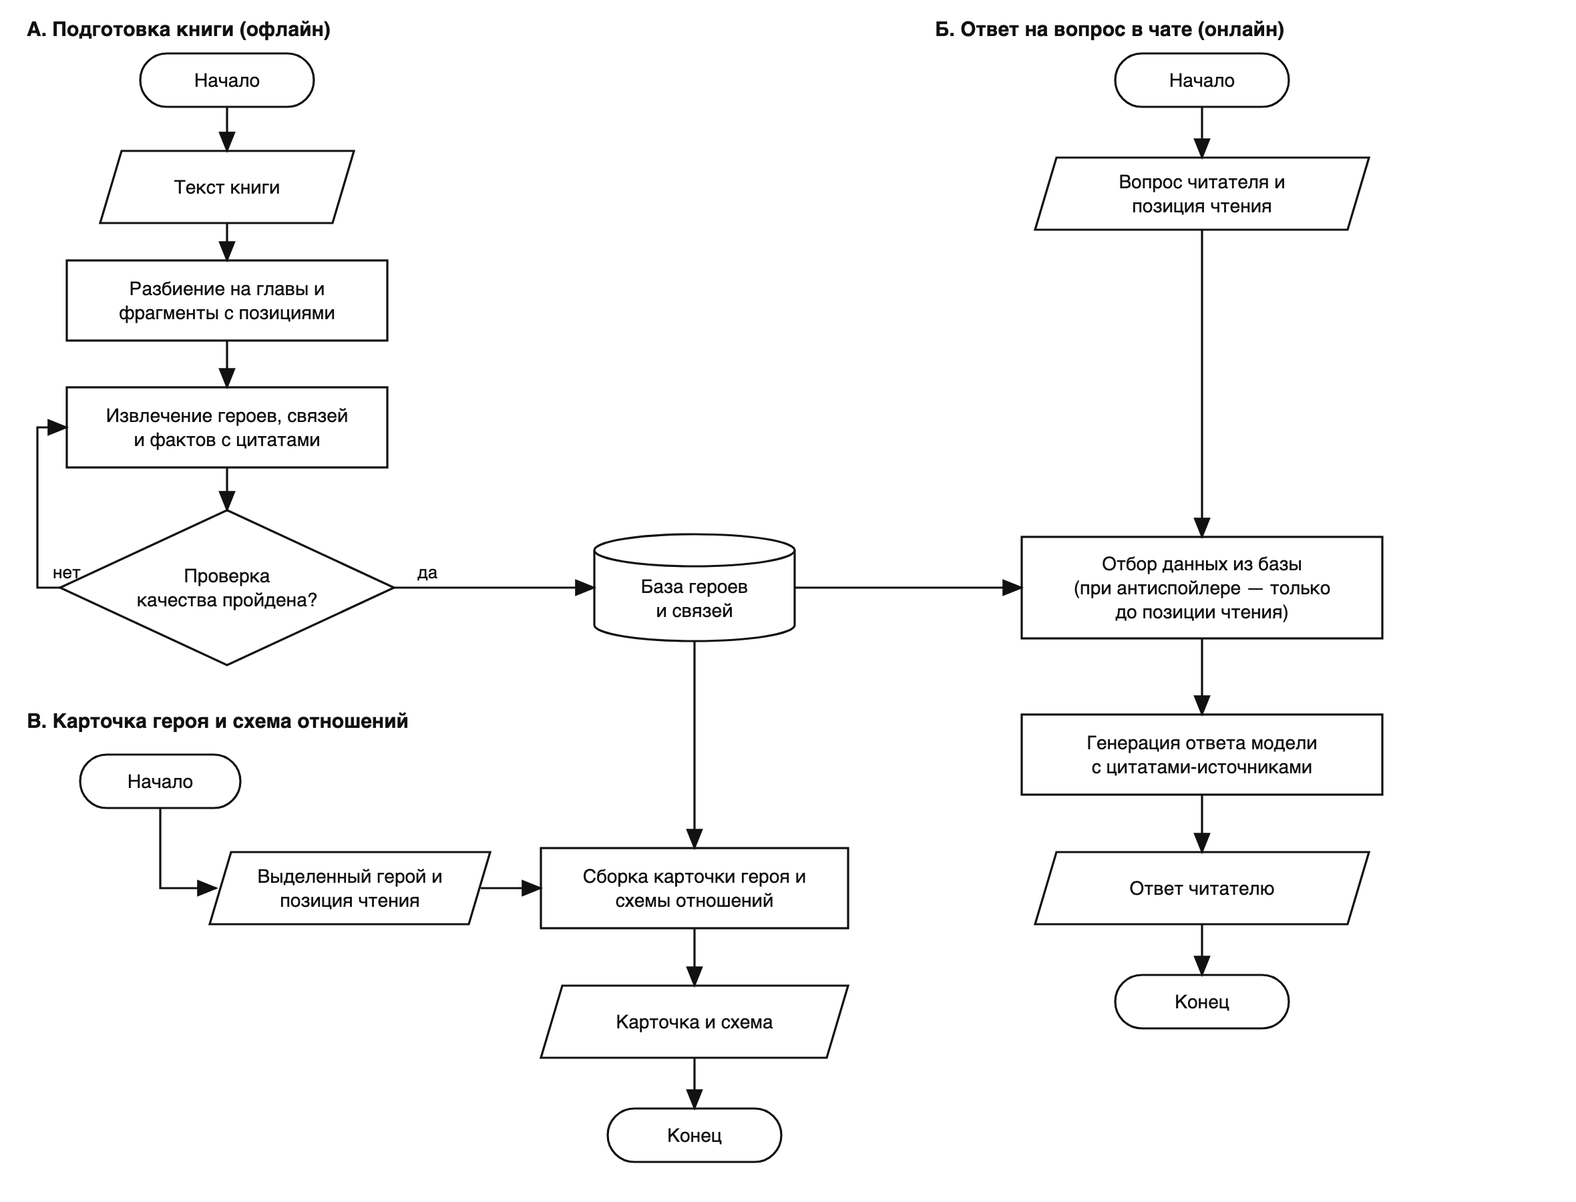
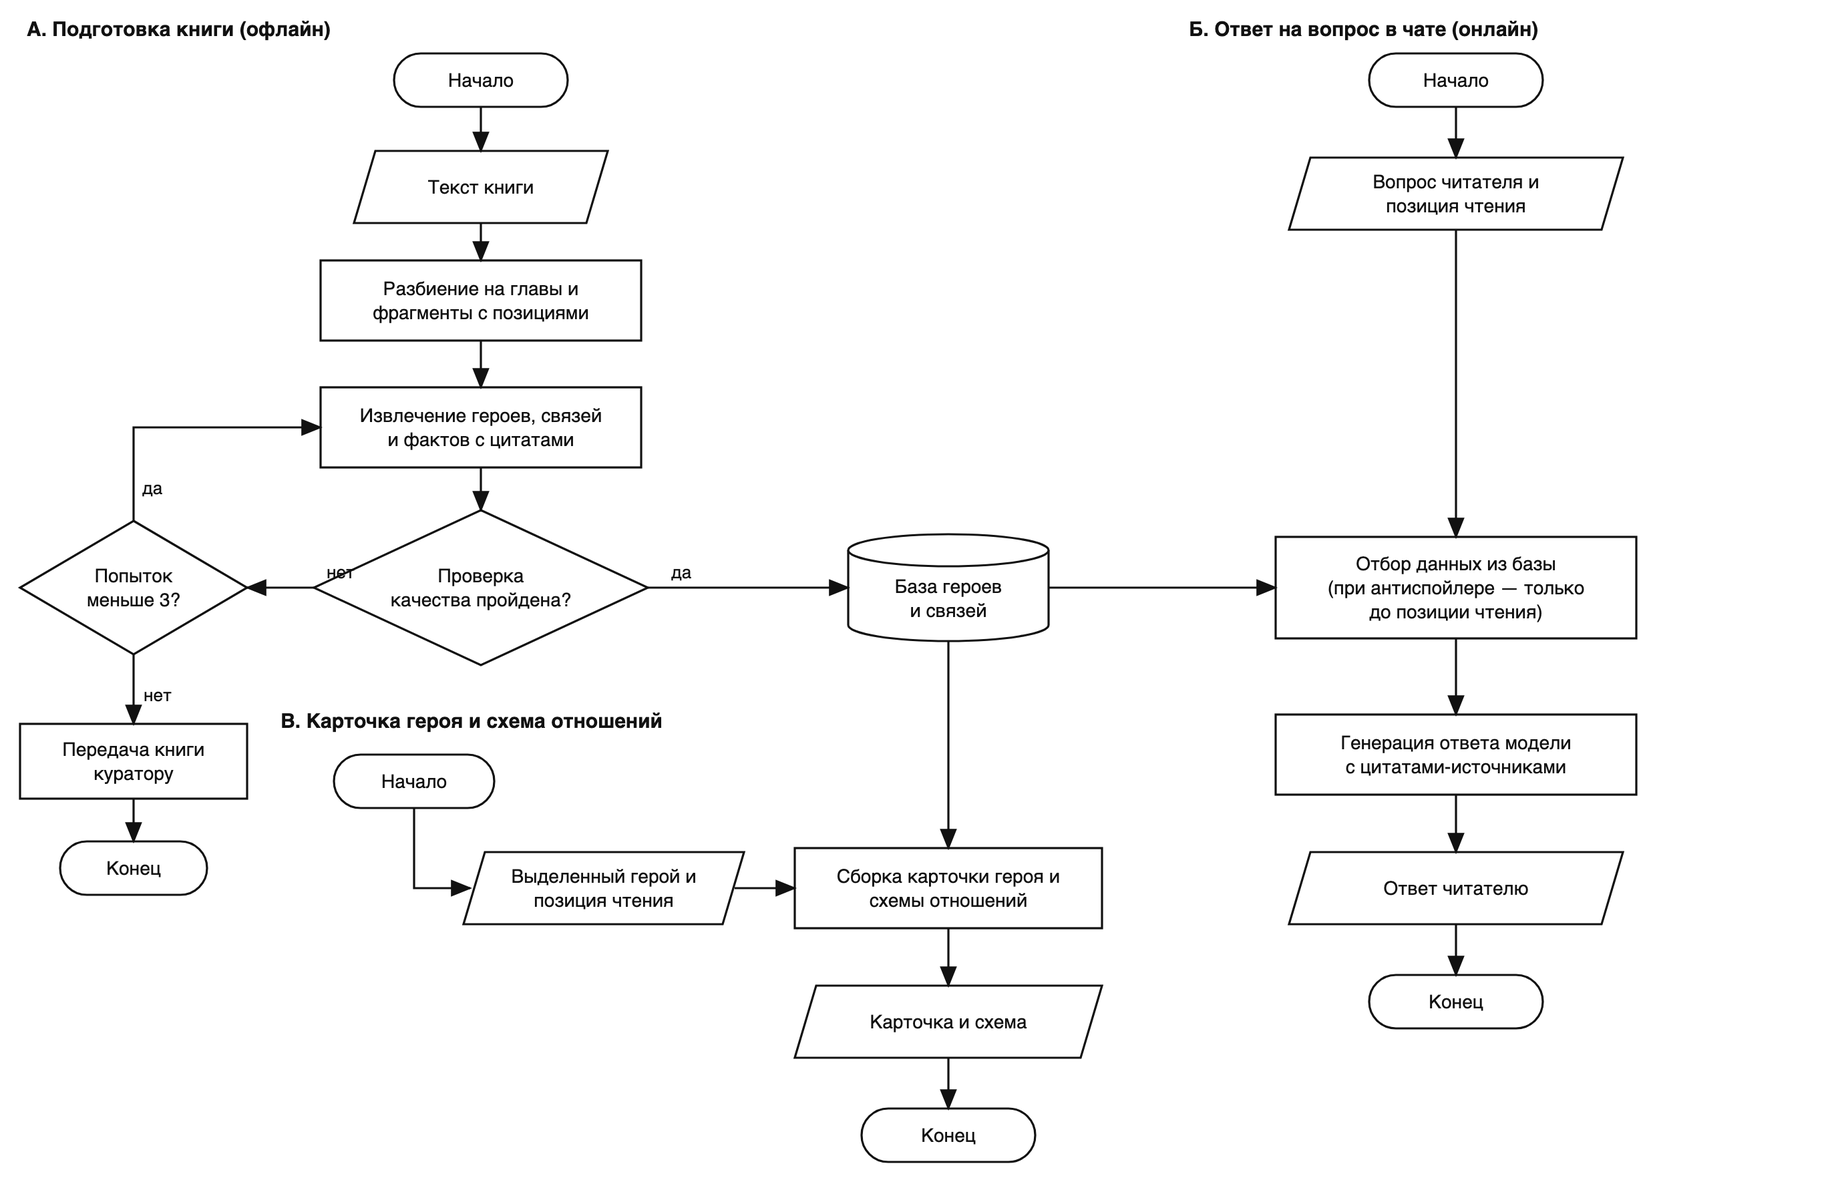
Правки по ревью: согласованы цифры, источники, повторные попытки на схеме

diff --git a/docs/ml_system_design_doc.md b/docs/ml_system_design_doc.md
@@ -1,6 +1,6 @@
-# Персонажи в Интуиции
+# Персонажи в «Интуиции»
 
-**Контекст.** Интуиция — ИИ-приложение для чтения книг. По любому выделенному фрагменту оно даёт достоверный
+**Контекст.** «Интуиция» — ИИ-приложение для чтения книг. По любому выделенному фрагменту оно даёт достоверный
 ответ с опорой на отобранные экспертами источники. Сайт: [readintuition.ru](https://readintuition.ru).
 
 # 1. Цели и предпосылки
@@ -9,7 +9,12 @@
 
 **Проблема.** В больших художественных книгах много героев: у них бывают прозвища, их имена меняются, а читатель нередко делает паузы в чтении. В итоге он теряется и задаётся вопросами вроде «кто это?» или «кем он
 приходится главному герою?». Чтобы разобраться, ему приходится листать книгу назад или искать ответ в
-интернете, где легко нарваться на спойлеры. Часть читателей из-за этого бросает книгу.
+интернете, где легко нарваться на спойлеры. Согласно продуктовым исследованиям, часть читателей из-за этого бросает книгу.
+Проблему подтверждают и конкуренты: в августе 2026 года Яндекс Книги запустили ИИ-функцию «О персонажах»
+([новость](https://www.comss.ru/page.php?id=21562)), которая напоминает, кто есть кто, без раскрытия
+непрочитанного. Раньше Яндекс выпустил «Ранее в книге» (ИИ-пересказ предыдущих глав после перерыва). По данным
+компании, ею воспользовались более 13% подписчиков, а их время чтения выросло на 15%
+([источник](https://rozetked.me/news/43271-funkciya-ranee-v-knige-ot-yandeksa-teper-dostupna-i-dlya-audioknig)).
 
 **Что делаем.** Добавляем в приложение «Интуиция» фичу «Персонажи». Читатель задаёт в чате вопрос
 вроде «а кем Старцев ему приходится?» и получает точный ответ, который учитывает, до какого места он дочитал
@@ -28,7 +33,8 @@
 - Вручную описывать героев для каждой книги библиотеки невозможно: это дорого и не
   масштабируется.
 - Обычный поиск по тексту (RAG) тоже не подходит: связи между героями разбросаны по всей книге,
-  и поиск находит отдельные фрагменты, но не собирает из них полную картину. В базовой конфигурации такой подход также не учитывает спойлеры.
+  и поиск находит отдельные фрагменты, но не собирает из них полную картину. Из-за этого ответ на вопрос о связи
+  героев зависит от того, какие фрагменты попали в выдачу, и часть связей теряется.
 
 **Что считаем успехом итерации.** Читатели пользуются вопросами и карточками про героев, ответы верны и не
 содержат спойлеров, а подготовка новой книги проходит без ручной работы.
@@ -41,7 +47,7 @@
 - В чате можно спросить про героя («кто такой Старцев?») и про связь героев («кем Старцев ему приходится?»).
   Местоимения вроде «ему» система понимает из контекста диалога и места, где читатель находится в книге.
 - Ответы учитывают позицию чтения: в них нет ничего из того, что читатель ещё не прочитал. Если он сам
-  захочет, он может отключить автоспойлер. Тогда ответы должны учитывать все произведение.
+  захочет, он может отключить антиспойлер. Тогда ответы должны учитывать все произведение.
 - У каждого факта и каждой связи есть источник: цитата и глава, чтобы читатель мог проверить ответ.
 - Читатель может открыть карточку героя (описание, факты, связи) и схему отношений. Они строятся из тех же
   данных, что и ответы в чате.
@@ -50,15 +56,15 @@
 
 **Нефункциональные требования**
 
-- *Качество.* Ответы достоверны не менее чем на 95%, не менее 80% фактов подтверждаются цитатой, спойлеров
-  не больше 2%.
+- *Качество.* Целевые показатели достоверности, подтверждения цитатами и доли спойлеров заданы в критериях
+  успеха пилота ниже.
 - *Скорость.* Ответ в чате приходит не позже чем за 5 секунд. Карточка и схема открываются без заметной
   задержки, так как данные собраны заранее.
 - *Стоимость.* Обработка одной книги стоит не больше 1 000 ₽, один ответ в чате — не больше 3 ₽
   (первичная оценка по объёму книги около 1 млн токенов и цене облегчённой модели, уточним замерами).
 - *Автоматизация.* Обработка книги запускается без ручных шагов и на одной и той же книге даёт
   одинаковый результат.
-- *Масштабируемость.* Подход должен работать на всей художественной библиотеке, а не только на пилотных книгах.
+- *Масштабируемость.* Архитектура не должна мешать масштабированию на всю художественную библиотеку.
 - *Юридические.* Тексты книг защищены авторским правом, поэтому в ответах показываем пересказ и короткие
   цитаты (не длиннее 30 слов, то есть одно-два предложения), а не крупные фрагменты.
 - *Язык.* Книги и вопросы на русском языке.
@@ -67,9 +73,9 @@
 
 - Бюджет пилота на языковые модели (обработка книг и ответы в чате) не больше 15 000 ₽.
 - Используем готовые языковые модели, свои не обучаем.
-- Работаем в рамках текущей инфраструктуры Интуиции: тексты книг и чат-ассистент на RAG уже есть.
+- Работаем в рамках текущей инфраструктуры «Интуиции»: тексты книг и чат-ассистент на RAG уже есть.
 
-**Ожидаемый результат итерации.** Фича работает на нескольких художественных книгах из библиотеки.
+**Ожидаемый результат итерации.** Фича работает на двух художественных книгах из библиотеки.
 
 **Как фича встраивается в процесс на время пилота.** Она включена только для пилотных книг, а остальные
 работают как раньше. Если ответ или карточка содержат ошибку, читатель может на неё пожаловаться.
@@ -78,14 +84,17 @@
 
 Продуктовые:
 
-- доля читающих, задавших вопрос о героях, не ниже 30%;
+- доля читателей пилотных книг, задавших вопрос о героях, не ниже 10%;
 - доля положительных оценок ответов про персонажей не ниже 80%.
 
 Качество:
 
-- в проверочных наборах нет спойлеров;
-- ответы достоверны на 95%;
-- 80% фактов подтверждаются цитатой из книги.
+- доля спойлеров не больше 2%;
+- ответы достоверны не менее чем на 95%;
+- не менее 80% фактов подтверждаются цитатой из книги.
+
+Достоверность и спойлеры оцениваем на размеченной выборке не менее чем из 100 вопросов по двум пилотным
+книгам: модель-судья сверяет ответ с текстом книги, часть ответов дополнительно проверяется вручную.
 
 **Дальнейшие шаги при успехе.** Раскатываем фичу на всю художественную библиотеку.
 
@@ -99,7 +108,7 @@
 - Карточка героя.
 - Схема отношений.
 - Антиспойлер по позиции чтения.
-- Проверка качества на нескольких книгах, размеченных вручную.
+- Проверка качества на двух книгах, размеченных вручную.
 
 **Не входит в итерацию**
 
@@ -112,10 +121,9 @@
 
 ## 1.4. Предпосылки решения
 
-- В приложении Интуиция уже есть тексты книг, чат-ассистент на RAG. Позицию чтения каждого
+- В приложении «Интуиция» уже есть тексты книг, чат-ассистент на RAG. Позицию чтения каждого
   читателя мы знаем.
 - Информацию о героях берём только из текста книги, а не из знаний модели. Иначе в ответы попадут спойлеры и сведения из экранизаций.
-- Используем готовые языковые модели и не обучаем свои.
 - Главные риски: ошибки в связях между героями, дубли одного героя под разными именами, утечка спойлеров и
   рост стоимости на очень длинных книгах.
 
@@ -131,7 +139,10 @@
   героях сохраняются так же, с позицией.
 - **Запрос читателя:** вопрос в чате или выделенный герой, позиция чтения. Ответ собирается только из
   данных, которые относятся к тексту до этой позиции при включённом антиспойлере.
-- **Метрики качества:** точность и полнота найденных героев и связей на вручную размеченных книгах, доля фактов с подтверждающей цитатой, доля спойлеров (цель: ноль). Продуктовые метрики описаны в 1.2.
+- **Метрики качества:**
+  - точность и полнота найденных героев на вручную размеченных книгах: не ниже 90%;
+  - точность и полнота найденных связей: не ниже 70% (первичная цель, уточним по baseline);
+  - достоверность ответов, доля фактов с цитатой и доля спойлеров: см. критерии успеха пилота в 1.2.
 
 ## 2.2. Блок-схема решения
 
@@ -153,4 +164,4 @@
    разметкой, проверкой цитат и проверкой на спойлеры, а часть ответов оценивает модель-судья.
 4. **Чат и антиспойлер.** Ответы в чате строим только из данных до позиции чтения.
 5. **Карточка героя и схема отношений** на тех же данных.
-6. **Пилот** на нескольких книгах, затем раскатка на библиотеку. Риски и открытые вопросы фиксируем по ходу.
+6. **Пилот** на двух книгах, затем раскатка на библиотеку. Риски и открытые вопросы фиксируем по ходу.
